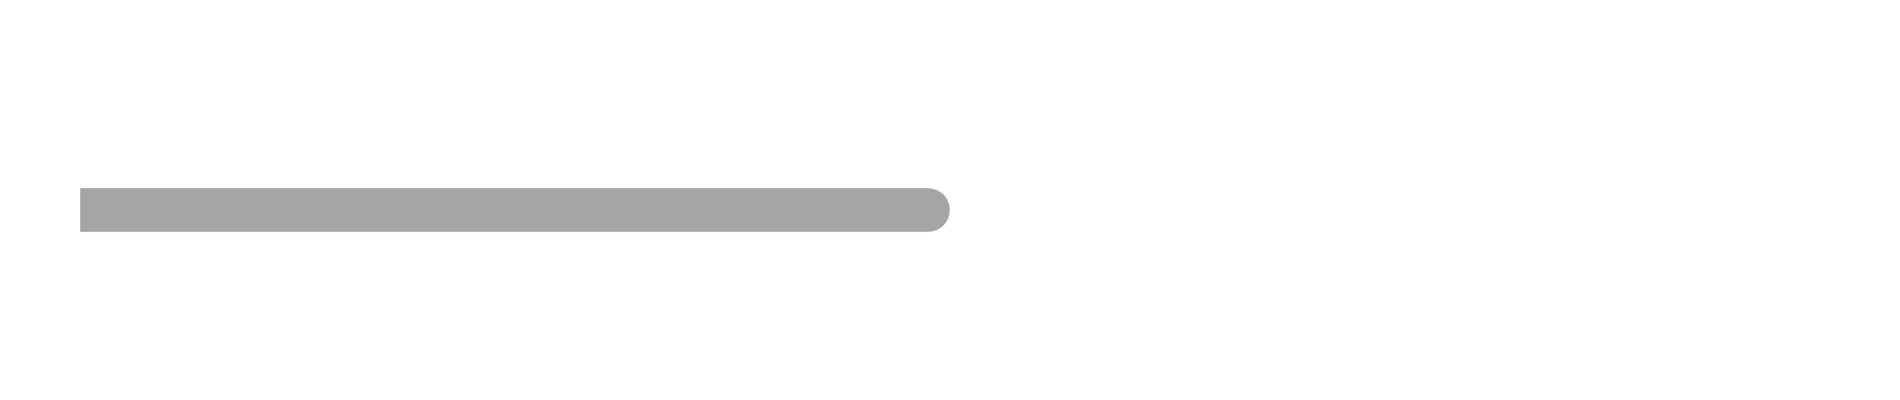
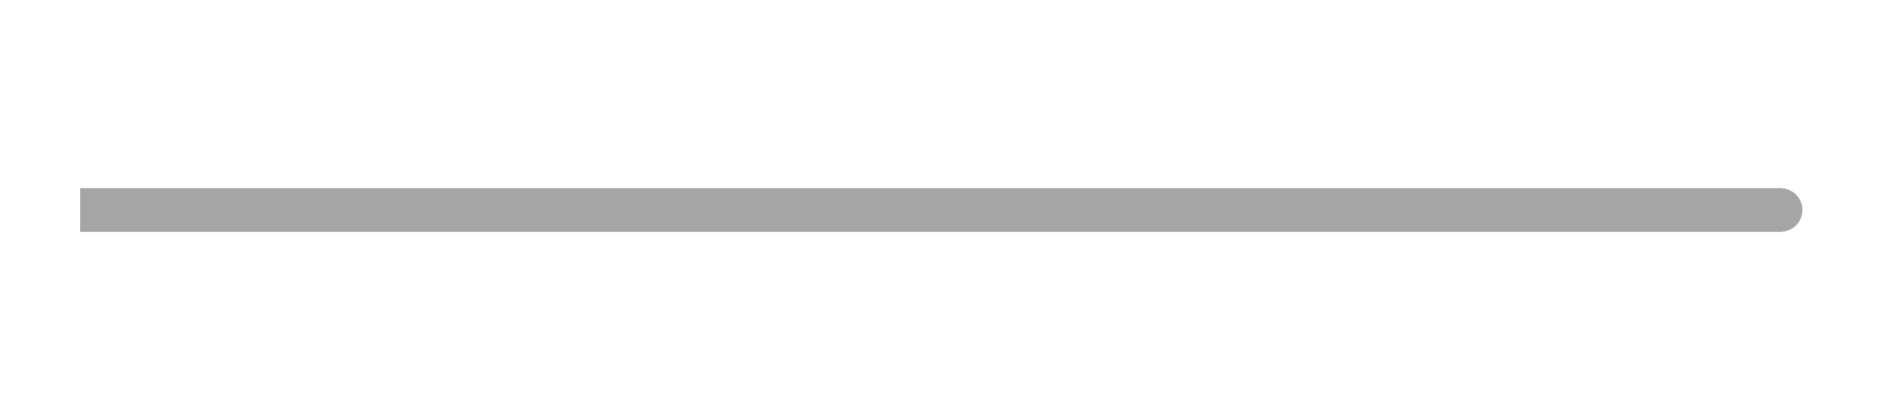
fix: consertando o problema de diretorios que só funcionavam para o endereço do meu computador, agora eles identificam os diretorios e criam tudo certo

Changed region(s): [[0.4968, 0.45, 0.9626, 0.6]]

diff --git a/gerando_grafico_base.py b/gerando_grafico_base.py
@@ -3,12 +3,17 @@ import plotly.graph_objects as go
 import os
 from PIL import Image
 # Carregar o DataFrame
-df = pd.read_excel("/home/victor/Documents/TREZENTOS/trezentosteste999.xlsx")
+# Obter o diretório atual onde o script está sendo executado
+current_dir = os.path.dirname(os.path.abspath(__file__))
+# Construir o caminho completo para o arquivo
+file_path = os.path.join(current_dir, 'trezentosteste999.xlsx')
+# Ler o arquivo Excel
+df = pd.read_excel(file_path)
 resol = 1
 linha_grade = 1.1
 media_turma = media_y_data = df.iloc[:, 1].mean()
-dias_totais = 30
-dia_atual = 15
+dias_totais = 100
+dia_atual = 99
 porcent_graf_dias = (dia_atual / dias_totais) * 30
 
 # Extrair os dados para os eixos x e y
@@ -46,7 +51,7 @@ for y in y_data:
       cores.append('#56d19f')
     else:
       cores.append('#62b3ef')  # Cor padrão para outros valores
-fonte_ttf_externa = "/home/victor/Documents/TREZENTOS/Poppins-Regular.ttf"
+fonte_ttf_externa = os.path.join(current_dir, 'Poppins-Regular.ttf')
 # Criar o gráfico de barras
 fig = go.Figure(data=go.Bar(x=x_data, y=y_data, marker=dict(color=cores, cornerradius=30),width=0.65))
 
@@ -127,8 +132,4 @@ for imagem_url, x, y in imagens:
 # Salvar a imagem
 if not os.path.exists("images"):
     os.mkdir("images")
-fig.write_image("/home/victor/Documents/TREZENTOS/images/base_graf.png")
-'''
-base = Image.open("/home/victor/Documents/TREZENTOS/images/base_graf.png")
-base.show()
-'''
+fig.write_image(os.path.join(current_dir, 'images', 'base_graf.png'))

diff --git a/imagem_final_gerador.py b/imagem_final_gerador.py
@@ -30,7 +30,7 @@ dias_invertido = ImageOps.mirror(dias.crop(dias.getbbox()))
 draw = ImageDraw.Draw(base)
 
 # Define a fonte e o tamanho do texto
-font_path = "/home/victor/Documents/TREZENTOS/Poppins-Regular.ttf"
+font_path = os.path.join(current_directory, "Poppins-Regular.ttf")
 font_size = 24
 font1 = ImageFont.truetype(font_path, font_size)
 
@@ -104,5 +104,5 @@ base.paste(backside_dias_invertido, (223, 267-altura),backside_dias_invertido)
 base.paste(dias, (coordx, 80-altura),dias)  # ajuste a posição conforme necessário
 base.paste(dias_invertido, (223, 267-altura),dias_invertido) 
 # Salva a imagem resultante
-base.save('/home/victor/Documents/TREZENTOS/images/imagem_final.png')
+base.save(os.path.join(current_directory, 'images', 'imagem_final.png'))
 base.show()

diff --git a/backside_media_generator.py b/backside_media_generator.py
@@ -2,7 +2,7 @@ import gerando_grafico_base as gf
 import pandas as pd
 import plotly.graph_objects as go
 import os
-
+current_dir = os.path.dirname(os.path.abspath(__file__))
 fig1 = go.Figure(go.Bar(
     x=['Média da Turma'],
     y=[14.5],
@@ -23,5 +23,5 @@ fig1.update_layout(
 
 if not os.path.exists("images"):
     os.mkdir("images")
-fig1.write_image("/home/victor/Documents/TREZENTOS/images/backside_media_graf.png")
+fig1.write_image(os.path.join(current_dir, 'images', 'backside_media_graf.png'))
 #fig1.show()

diff --git a/gerando_grafico_media_turma.py b/gerando_grafico_media_turma.py
@@ -2,7 +2,7 @@ import gerando_grafico_base as gf
 import pandas as pd
 import plotly.graph_objects as go
 import os
-
+current_dir = os.path.dirname(os.path.abspath(__file__))
 fig1 = go.Figure(go.Bar(
     x=['Média da Turma'],
     y=[gf.media_turma],
@@ -23,5 +23,5 @@ fig1.update_layout(
 
 if not os.path.exists("images"):
     os.mkdir("images")
-fig1.write_image("/home/victor/Documents/TREZENTOS/images/media_graf.png")
+fig1.write_image(os.path.join(current_dir, 'images', 'media_graf.png'))
 #fig1.show()

diff --git a/backside_dias_generator.py b/backside_dias_generator.py
@@ -1,6 +1,7 @@
 import plotly.graph_objects as go
 import os
 import gerando_grafico_base as gf
+current_dir = os.path.dirname(os.path.abspath(__file__))
 fig1 = go.Figure(go.Bar(
     x=[30],
     y=['Dias restantes'],
@@ -22,5 +23,5 @@ fig1.update_layout(
 
 if not os.path.exists("images"):
     os.mkdir("images")
-fig1.write_image("/home/victor/Documents/TREZENTOS/images/backside_dias_graf.png")
+fig1.write_image(os.path.join(current_dir, 'images', 'backside_dias_graf.png'))
 #fig1.show()

diff --git a/gerando_gráfico_dias.py b/gerando_gráfico_dias.py
@@ -1,6 +1,7 @@
 import plotly.graph_objects as go
 import os
 import gerando_grafico_base as gf
+current_dir = os.path.dirname(os.path.abspath(__file__))
 fig1 = go.Figure(go.Bar(
     x=[gf.porcent_graf_dias],
     y=['Dias restantes'],
@@ -22,5 +23,5 @@ fig1.update_layout(
 
 if not os.path.exists("images"):
     os.mkdir("images")
-fig1.write_image("/home/victor/Documents/TREZENTOS/images/dias_graf.png")
+fig1.write_image(os.path.join(current_dir, 'images', 'dias_graf.png'))
 #fig1.show()
